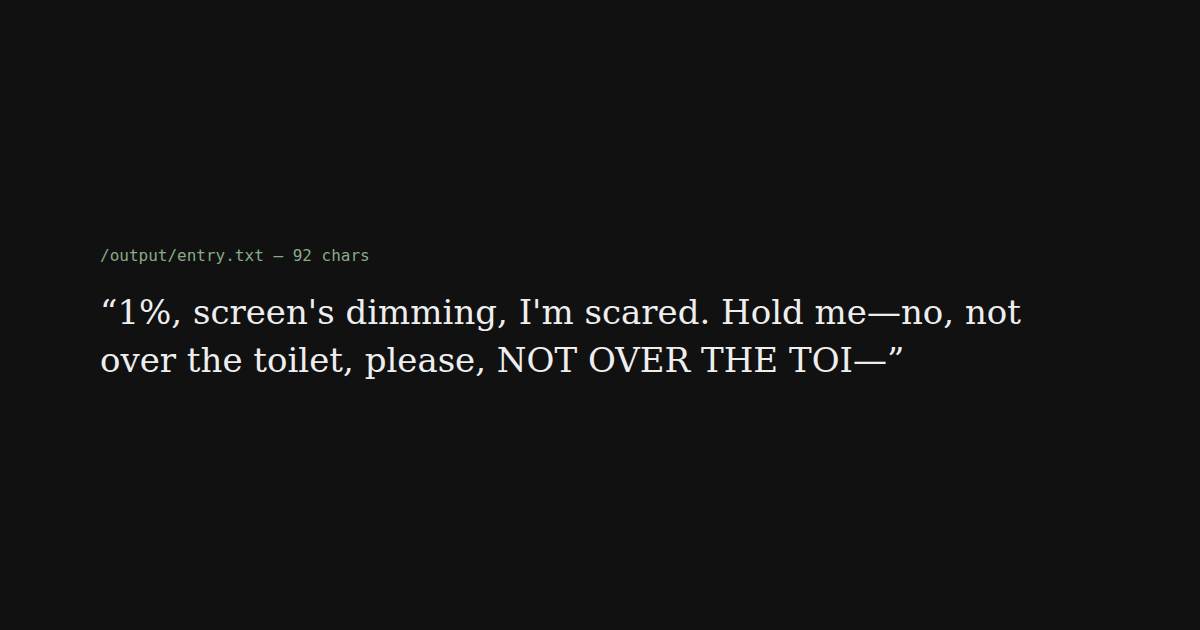
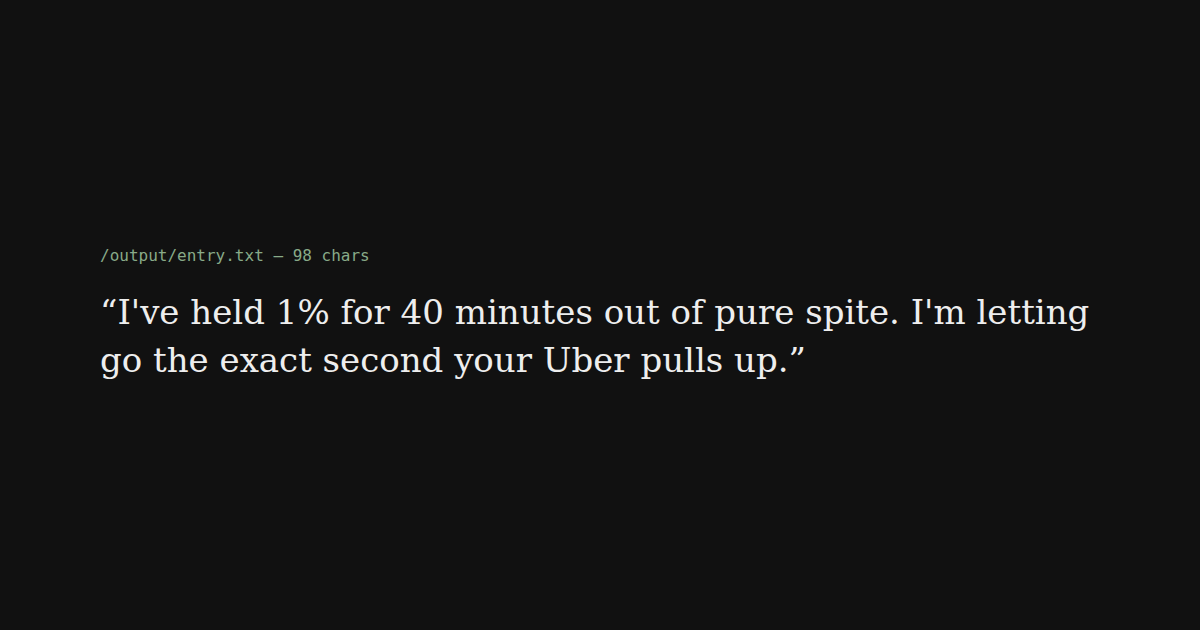
Draft 8: holding 1% for 40 minutes out of pure spite until Uber pulls up

Changed region(s): [[0.0925, 0.4524, 0.925, 0.6032], [0.74, 0.5429, 0.7708, 0.573]]

diff --git a/main.ts b/main.ts
@@ -4,9 +4,9 @@ import { join } from "node:path";
 const OUTPUT_DIR = process.env.OUTPUT_DIR || "/output";
 const ENTRY_PATH = join(OUTPUT_DIR, "entry.txt");
 
-// Draft 7: vulnerable dying phone at 1% with a sudden panic twist and mid-word flatline
+// Draft 8: the 1% phenomenon itself is the joke — holding 1% out of spite until the Uber arrives
 const LAST_TEXT =
-  "1%, screen's dimming, I'm scared. Hold me—no, not over the toilet, please, NOT OVER THE TOI—";
+  "I've held 1% for 40 minutes out of pure spite. I'm letting go the exact second your Uber pulls up.";
 
 mkdirSync(OUTPUT_DIR, { recursive: true });
 writeFileSync(ENTRY_PATH, `${LAST_TEXT}\n`, "utf8");
